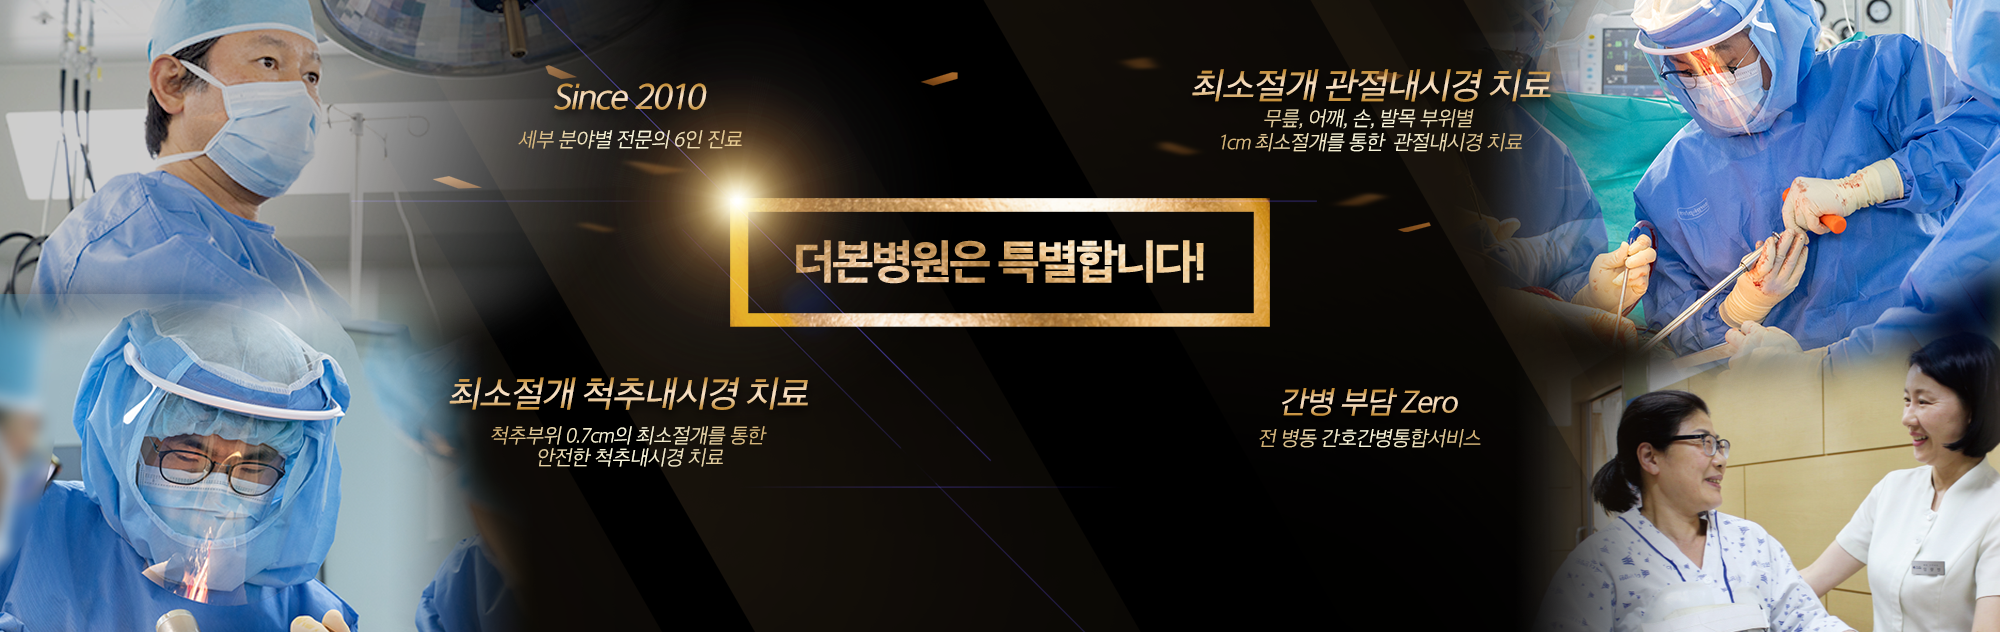
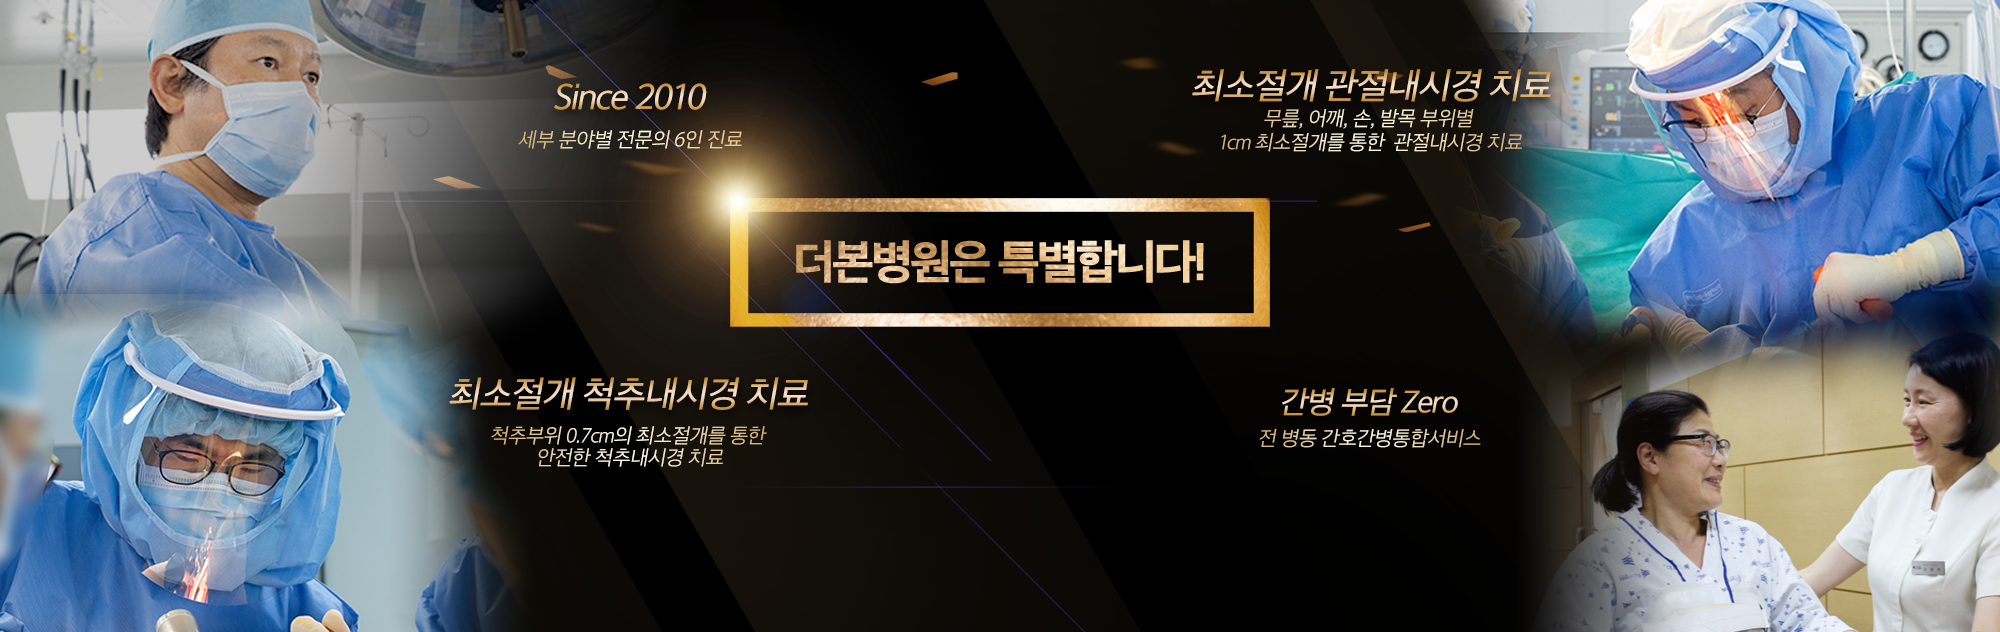
메인확정1

Changed region(s): [[0.713, 0.0, 1.0, 0.6013]]

diff --git a/index.html b/index.html
@@ -1980,23 +1980,13 @@ background-color:#ffffff;
 	<span id="dsp_column_5af4f80963f89">
         <div style="height:633px;position:relative;width:2000;overflow:hidden;" onmouseover="theme_609899791512a_flag=1;" onmouseout="theme_609899791512a_flag=0;">
 			<div style="height:633px;background:url(files/main17.png);background-size:2000px;;background-position:center top;position:absolute;background-repeat:no-repeat;width:100%;display:none; " id="theme_609899791512a_0" ></div>
-            <div style="height:633px;background:url(files/main18.png);background-size:2000px;;background-position:center top;position:absolute;background-repeat:no-repeat;width:100%;display:none; " id="theme_609899791512a_1" ></div>
-            <div style="height:633px;background:url(files/main19.png);background-size:2000px;;background-position:center top;position:absolute;background-repeat:no-repeat;width:100%;display:none; " id="theme_609899791512a_2" ></div>
-            <div style="height:633px;background:url(files/main9.png);background-size:2000px;;background-position:center top;position:absolute;background-repeat:no-repeat;width:100%;display:none; " id="theme_609899791512a_3" ></div>
-            <div style="height:633px;background:url(files/main10.png);background-size:2000px;;background-position:center top;position:absolute;background-repeat:no-repeat;width:100%;display:none; " id="theme_609899791512a_4" ></div>
-            <div style="height:633px;background:url(files/main11.png);background-size:2000px;;background-position:center top;position:absolute;background-repeat:no-repeat;width:100%;display:none; " id="theme_609899791512a_5" ></div>
-			<div style="height:633px;background:url(files/main12.png);background-size:2000px;;background-position:center top;position:absolute;background-repeat:no-repeat;width:100%;display:none; " id="theme_609899791512a_6" ></div>
-			<div style="height:633px;background:url(files/main13.png);background-size:2000px;;background-position:center top;position:absolute;background-repeat:no-repeat;width:100%;display:none; " id="theme_609899791512a_7" ></div>
-			<div style="height:633px;background:url(files/main3.png);background-size:2000px;;background-position:center top;position:absolute;background-repeat:no-repeat;width:100%;display:none; " id="theme_609899791512a_8" ></div>
-			<div style="height:633px;background:url(files/main4.png);background-size:2000px;;background-position:center top;position:absolute;background-repeat:no-repeat;width:100%;display:none; " id="theme_609899791512a_9" ></div>
-			<div style="height:633px;background:url(files/main2.png);background-size:2000px;;background-position:center top;position:absolute;background-repeat:no-repeat;width:100%;display:none; " id="theme_609899791512a_10" ></div>
-			<div style="height:633px;background:url(files/main14.png);background-size:2000px;;background-position:center top;position:absolute;background-repeat:no-repeat;width:100%;display:none; " id="theme_609899791512a_11" ></div>
-			<div style="height:633px;background:url(files/main15.png);background-size:2000px;;background-position:center top;position:absolute;background-repeat:no-repeat;width:100%;display:none; " id="theme_609899791512a_12" ></div>
-			<div style="height:633px;background:url(files/main16.png);background-size:2000px;;background-position:center top;position:absolute;background-repeat:no-repeat;width:100%;display:none; " id="theme_609899791512a_13" ></div>
-			<div style="height:633px;background:url(files/main5.png);background-size:2000px;;background-position:center top;position:absolute;background-repeat:no-repeat;width:100%;display:none; " id="theme_609899791512a_14" ></div>
-			<div style="height:633px;background:url(files/main6.png);background-size:2000px;;background-position:center top;position:absolute;background-repeat:no-repeat;width:100%;display:none; " id="theme_609899791512a_15" ></div>
-			<div style="height:633px;background:url(files/main7.png);background-size:2000px;;background-position:center top;position:absolute;background-repeat:no-repeat;width:100%;display:none; " id="theme_609899791512a_16" ></div>
-			<div style="height:633px;background:url(files/main8.png);background-size:2000px;;background-position:center top;position:absolute;background-repeat:no-repeat;width:100%;display:none; " id="theme_609899791512a_17" ></div>
+            <div style="height:633px;background:url(files/main9.png);background-size:2000px;;background-position:center top;position:absolute;background-repeat:no-repeat;width:100%;display:none; " id="theme_609899791512a_1" ></div>
+            <div style="height:633px;background:url(files/main11.png);background-size:2000px;;background-position:center top;position:absolute;background-repeat:no-repeat;width:100%;display:none; " id="theme_609899791512a_2" ></div>
+			<div style="height:633px;background:url(files/main12.png);background-size:2000px;;background-position:center top;position:absolute;background-repeat:no-repeat;width:100%;display:none; " id="theme_609899791512a_3" ></div>
+			<div style="height:633px;background:url(files/main13.png);background-size:2000px;;background-position:center top;position:absolute;background-repeat:no-repeat;width:100%;display:none; " id="theme_609899791512a_4" ></div>
+			<div style="height:633px;background:url(files/main2.png);background-size:2000px;;background-position:center top;position:absolute;background-repeat:no-repeat;width:100%;display:none; " id="theme_609899791512a_5" ></div>
+			<div style="height:633px;background:url(files/main15.png);background-size:2000px;;background-position:center top;position:absolute;background-repeat:no-repeat;width:100%;display:none; " id="theme_609899791512a_6" ></div>
+			<div style="height:633px;background:url(files/main8.png);background-size:2000px;;background-position:center top;position:absolute;background-repeat:no-repeat;width:100%;display:none; " id="theme_609899791512a_7" ></div>
 			
 <div style="position:absolute;bottom:20px;width:100%;text-align:center;">
 	<img src="img/theme-btn.png" style="border:2px solid #FFFFFF;margin:3px;cursor:pointer;border-radius:50%;" height=15 onmouseover="theme_609899791512a_theme_view(0);" id="theme_609899791512a_btn_0">
@@ -2006,17 +1996,7 @@ background-color:#ffffff;
 	<img src="img/theme-btn.png" style="border:2px solid #FFFFFF;margin:3px;cursor:pointer;border-radius:50%;" height=15 onmouseover="theme_609899791512a_theme_view(4);" id="theme_609899791512a_btn_4">
 	<img src="img/theme-btn.png" style="border:2px solid #FFFFFF;margin:3px;cursor:pointer;border-radius:50%;" height=15 onmouseover="theme_609899791512a_theme_view(5);" id="theme_609899791512a_btn_5">
 	<img src="img/theme-btn.png" style="border:2px solid #FFFFFF;margin:3px;cursor:pointer;border-radius:50%;" height=15 onmouseover="theme_609899791512a_theme_view(6);" id="theme_609899791512a_btn_6">
-	<img src="img/theme-btn.png" style="border:2px solid #FFFFFF;margin:3px;cursor:pointer;border-radius:50%;" height=15 onmouseover="theme_609899791512a_theme_view(7);" id="theme_609899791512a_btn_7">
-	<img src="img/theme-btn.png" style="border:2px solid #FFFFFF;margin:3px;cursor:pointer;border-radius:50%;" height=15 onmouseover="theme_609899791512a_theme_view(8);" id="theme_609899791512a_btn_8">
-	<img src="img/theme-btn.png" style="border:2px solid #FFFFFF;margin:3px;cursor:pointer;border-radius:50%;" height=15 onmouseover="theme_609899791512a_theme_view(9);" id="theme_609899791512a_btn_9">
-	<img src="img/theme-btn.png" style="border:2px solid #FFFFFF;margin:3px;cursor:pointer;border-radius:50%;" height=15 onmouseover="theme_609899791512a_theme_view(10);" id="theme_609899791512a_btn_10">
-	<img src="img/theme-btn.png" style="border:2px solid #FFFFFF;margin:3px;cursor:pointer;border-radius:50%;" height=15 onmouseover="theme_609899791512a_theme_view(11);" id="theme_609899791512a_btn_11">
-	<img src="img/theme-btn.png" style="border:2px solid #FFFFFF;margin:3px;cursor:pointer;border-radius:50%;" height=15 onmouseover="theme_609899791512a_theme_view(12);" id="theme_609899791512a_btn_12">
-	<img src="img/theme-btn.png" style="border:2px solid #FFFFFF;margin:3px;cursor:pointer;border-radius:50%;" height=15 onmouseover="theme_609899791512a_theme_view(13);" id="theme_609899791512a_btn_13">
-	<img src="img/theme-btn.png" style="border:2px solid #FFFFFF;margin:3px;cursor:pointer;border-radius:50%;" height=15 onmouseover="theme_609899791512a_theme_view(14);" id="theme_609899791512a_btn_14">
-	<img src="img/theme-btn.png" style="border:2px solid #FFFFFF;margin:3px;cursor:pointer;border-radius:50%;" height=15 onmouseover="theme_609899791512a_theme_view(15);" id="theme_609899791512a_btn_15">
-	<img src="img/theme-btn.png" style="border:2px solid #FFFFFF;margin:3px;cursor:pointer;border-radius:50%;" height=15 onmouseover="theme_609899791512a_theme_view(16);" id="theme_609899791512a_btn_16">
-	<img src="img/theme-btn.png" style="border:2px solid #FFFFFF;margin:3px;cursor:pointer;border-radius:50%;" height=15 onmouseover="theme_609899791512a_theme_view();" id="theme_609899791512a_btn_17">
+	<img src="img/theme-btn.png" style="border:2px solid #FFFFFF;margin:3px;cursor:pointer;border-radius:50%;" height=15 onmouseover="theme_609899791512a_theme_view();" id="theme_609899791512a_btn_7">
 </div>
 <img src="files/thebone-arrow-left.png" style="position:absolute;left:50%;margin-left:-830px;top:236px;cursor:pointer;" onclick="theme_609899791512a_prev()">
 <img src="files/thebone-arrow-right.png" style="position:absolute;left:50%;margin-left:775px;top:236px;cursor:pointer;" onclick="theme_609899791512a_next()">
@@ -2027,11 +2007,11 @@ background-color:#ffffff;
 <script>
 var theme_609899791512a_flag = 0;
 var theme_609899791512a_theme_no = 0;
-var theme_609899791512a_theme_total = 18;
+var theme_609899791512a_theme_total = 8;
 function theme_609899791512a_theme_view(no){
 	theme_609899791512a_theme_no = no;
 	try{
-		for(var i=0;i<18;i++){
+		for(var i=0;i<8;i++){
 			document.getElementById('theme_609899791512a_btn_'+i).style.borderColor = '#FFFFFF';
 			$('#theme_609899791512a_'+i).fadeOut(300);
 		}
